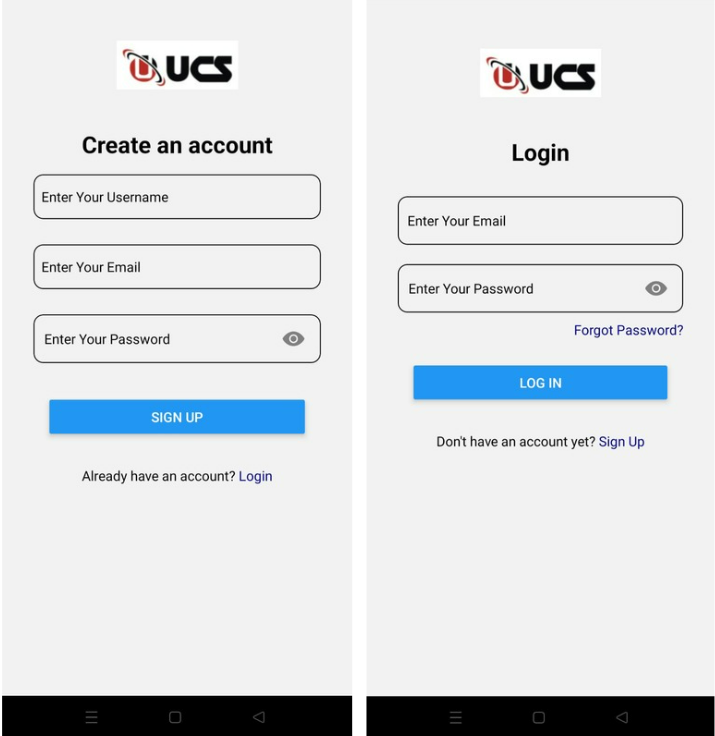
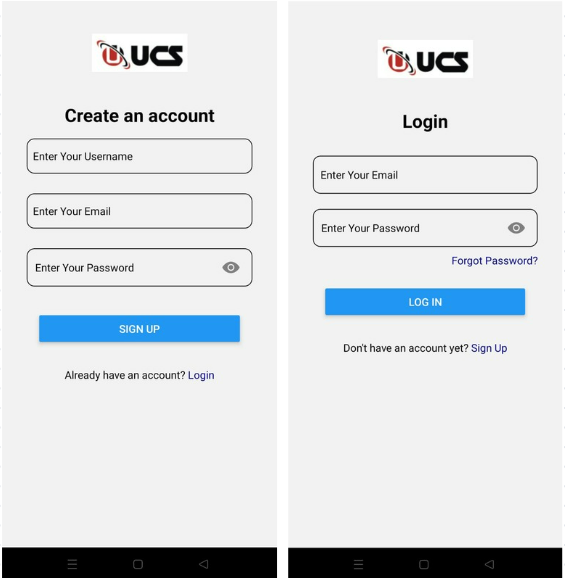
updated readme

diff --git a/README.md b/README.md
@@ -29,3 +29,5 @@
 #### Dashboard
 
 ![Dashboard of employees](/images/dashboard_emp.png)
+
+#### 
